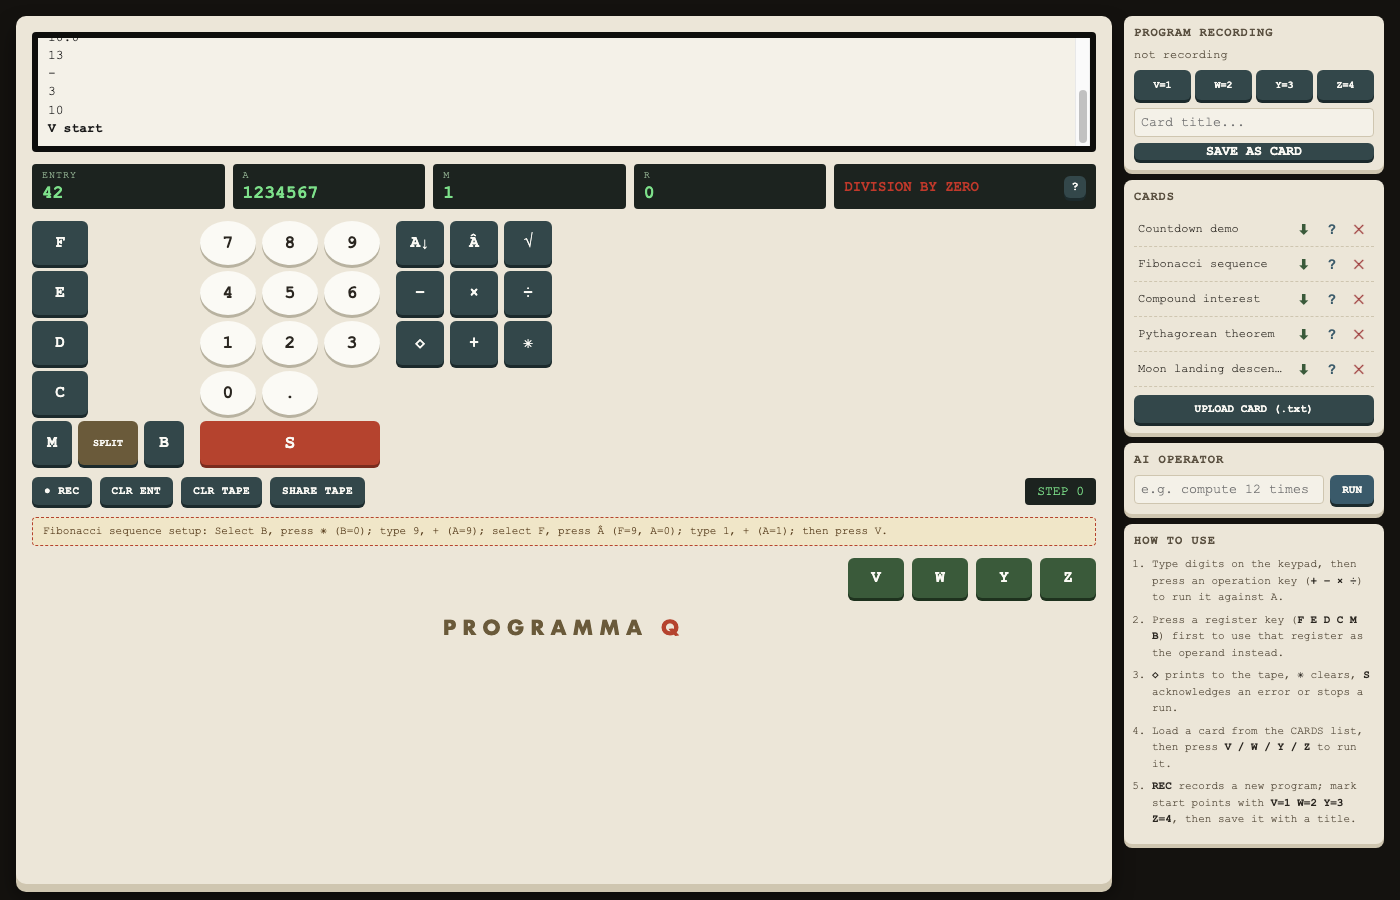
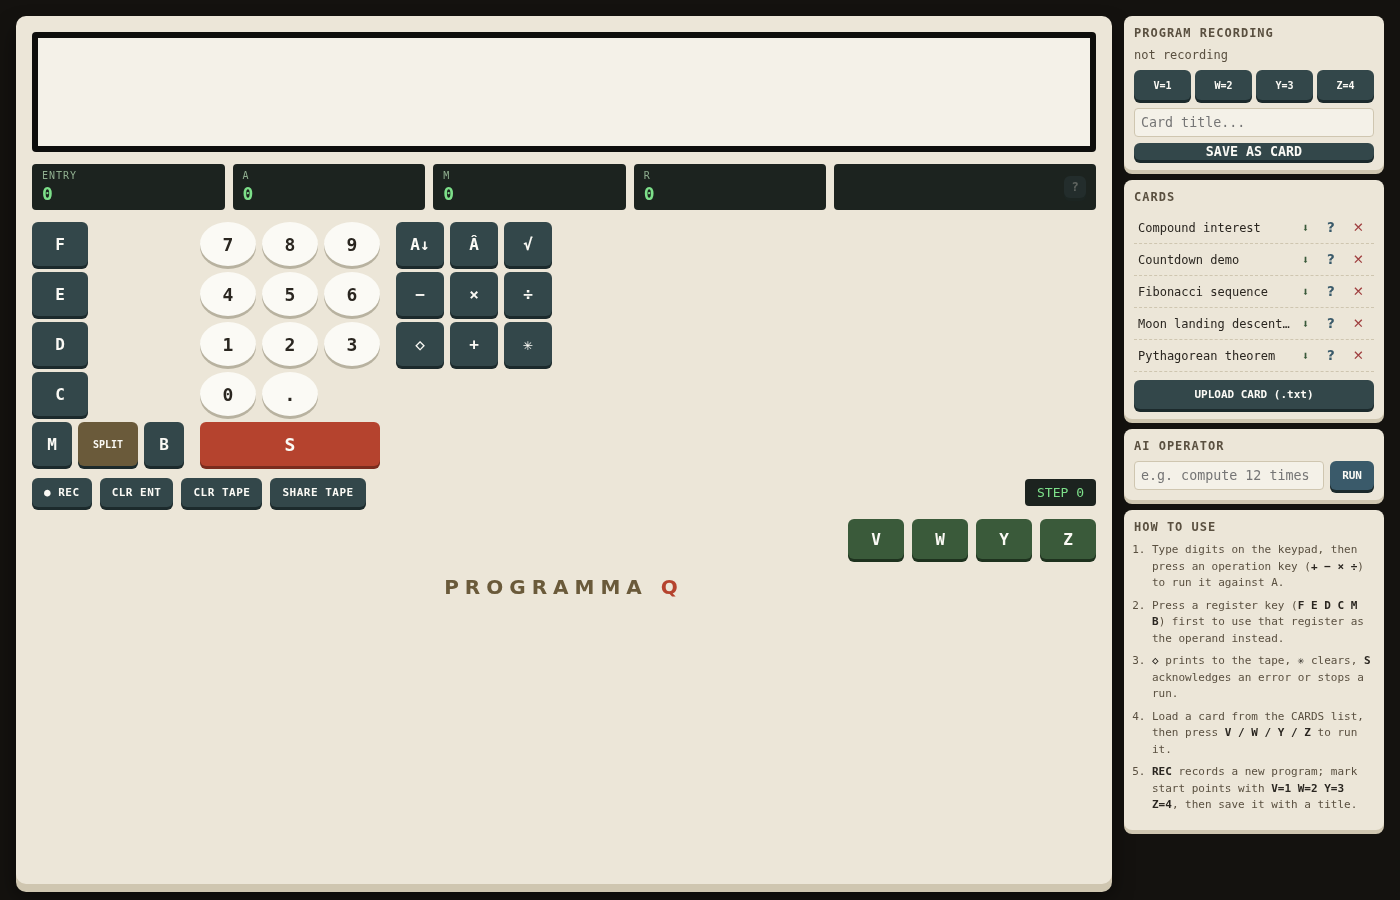
Fix post-reboot kiosk startup, document App Lab restart gotcha, refresh screenshots
arduino-app-cli never auto-starts apps after a reboot, so the kiosk's Chromium
window would come up pointed at a dead port until someone opened App Lab
manually. launch-progq-kiosk.sh now starts the app itself before waiting on
it, making the touch kiosk fully self-sufficient across reboots; README notes
the same gotcha for browser-only use. Also replaces the desktop screenshot and
adds a new kiosk-portrait one, both captured live off the board.

diff --git a/README.md b/README.md
@@ -5,12 +5,11 @@ calculator/proto-PC. Built on the official `arduino:web_ui`, `arduino:dbstorage_
 `arduino:llm` Bricks, with keyboard-click sound effects on a physical Modulino Buzzer and the
 Elea logo animating on the UNO Q's onboard LED matrix.
 
-![Programma Q UI](docs/screenshot.png)
+![Programma Q UI in a desktop browser](docs/screenshot.png)
 
-*A blocked `DIVISION BY ZERO` error, with the "?" button ready to ask the AI Assistant to explain
-it in plain English, and the AI OPERATOR panel in the side column ready to take a natural-language
-request and drive the keyboard itself. The register-setup hint above the start keys shows the key
-sequence a loaded example card expects before it's run.*
+*The full desktop layout: the emulator panel on the left, with the CARDS list, AI OPERATOR panel
+(ready to take a natural-language request and drive the keyboard itself), and how-to-use steps in
+the side column.*
 
 ## History
 
@@ -63,7 +62,15 @@ on a 2020s Arduino board, closes that loop in the same town's design lineage it 
 
 Deploy with the Arduino App CLI like any other app Brick bundle (`app.yaml` declares the
 `arduino:web_ui`, `arduino:dbstorage_sqlstore`, and `arduino:llm` Bricks, and exposes port 7000).
-Once deployed, open the app's URL (`http://<device-ip>:7000/`) in a browser to use it. Attach a
+Once deployed, open the app's URL (`http://<device-ip>:7000/`) in a browser to use it.
+
+**After a board reboot**, App Lab/`arduino-app-cli` does not auto-start any app -- it comes back up
+stopped, and the URL above won't respond until something starts it. Open the app from App Lab once
+(or run `arduino-app-cli app start user:progq`) to bring it back. If you've set up the touch kiosk
+below, you don't need to do this yourself: the kiosk launcher starts the app itself on every boot,
+so the touch panel comes up working with no App Lab interaction at all.
+
+Attach a
 Modulino Buzzer to the paired MCU for keyboard-click, error, and printer-chatter sounds -- the app
 runs fine without one, silently skipping the tones. The onboard LED matrix holds a static Elea logo
 while idle and rapidly "rebuilds" it from blank to complete every time a calculation runs (a single
@@ -212,11 +219,22 @@ DSI-TOUCH-A connected to the Media Carrier's DSI port -- with no browser window,
 mouse involved. This is optional and degrade-safe like everything else in this app: with no
 display attached, nothing about the browser experience changes.
 
+![Programma Q running full-screen in the touch kiosk, in portrait mode on a Waveshare 5" DSI-TOUCH-A panel](docs/screenshot-kiosk.png)
+
+*The same UI as above, chrome-free and re-flowed for the touch panel's 720x1280 portrait screen via
+the responsive breakpoint in `assets/style.css` -- larger touch targets, stacked panel layout.*
+
 It works by pointing a chrome-free Chromium kiosk window at `http://127.0.0.1:7000/` -- the exact
 same page and Socket.IO server the browser UI already talks to. There's no separate
 implementation to keep in sync: the touchscreen always looks and behaves exactly like the browser,
 and both can be used at the same time, updating each other live, the same way the browser, AI
 Operator, and physical controls already share one state via `_apply_key`/`broadcast_state()`.
+
+![Programma Q running full-screen in kiosk mode on a portrait touch panel](docs/screenshot-kiosk.png)
+
+*The same web UI, unchanged, filling a 720x1280 Waveshare 5" DSI-TOUCH-A in portrait -- the
+responsive breakpoint below stacks the calculator above the side panel once the layout is too
+narrow for the desktop's side-by-side view.*
 
 ### Installing and activating the Media Carrier
 
